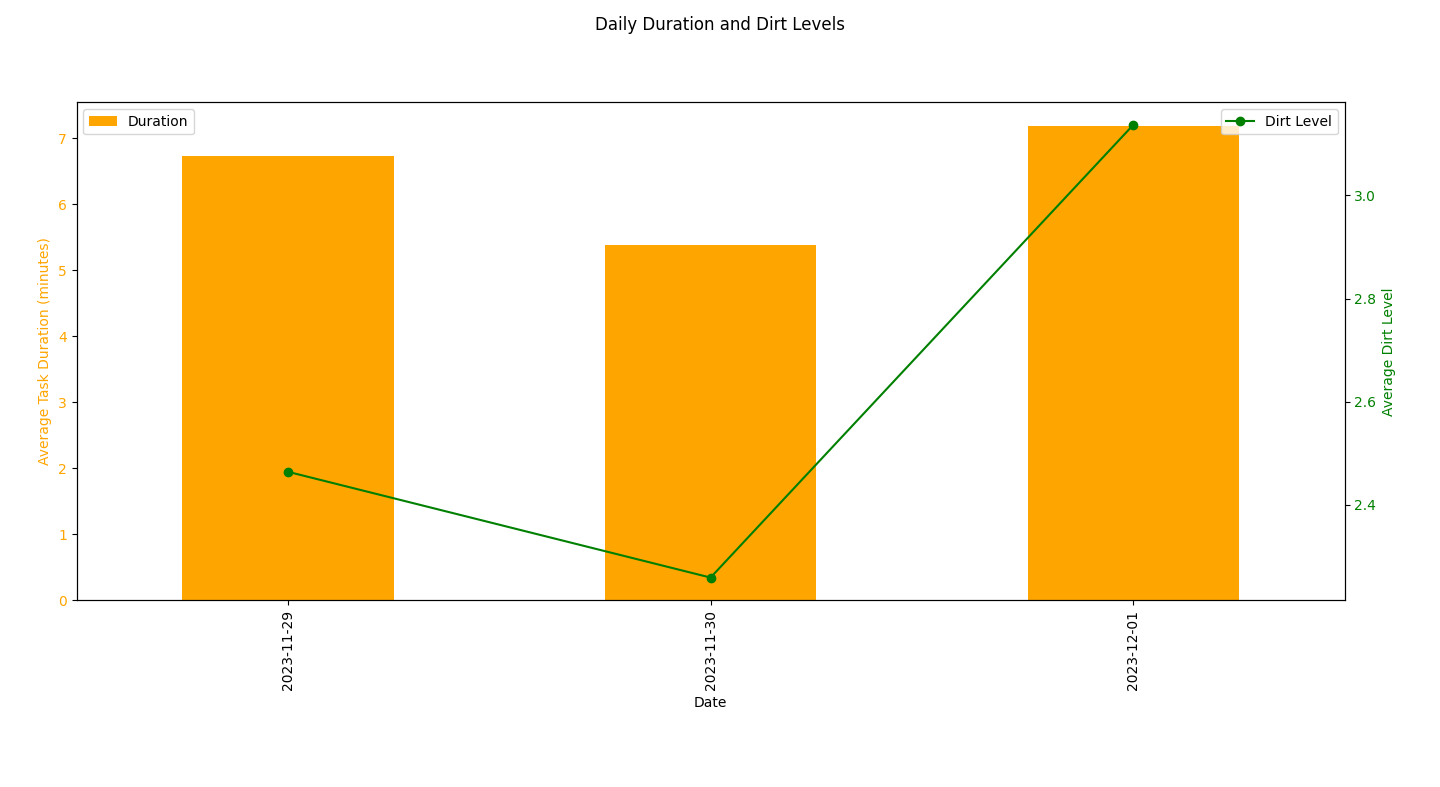
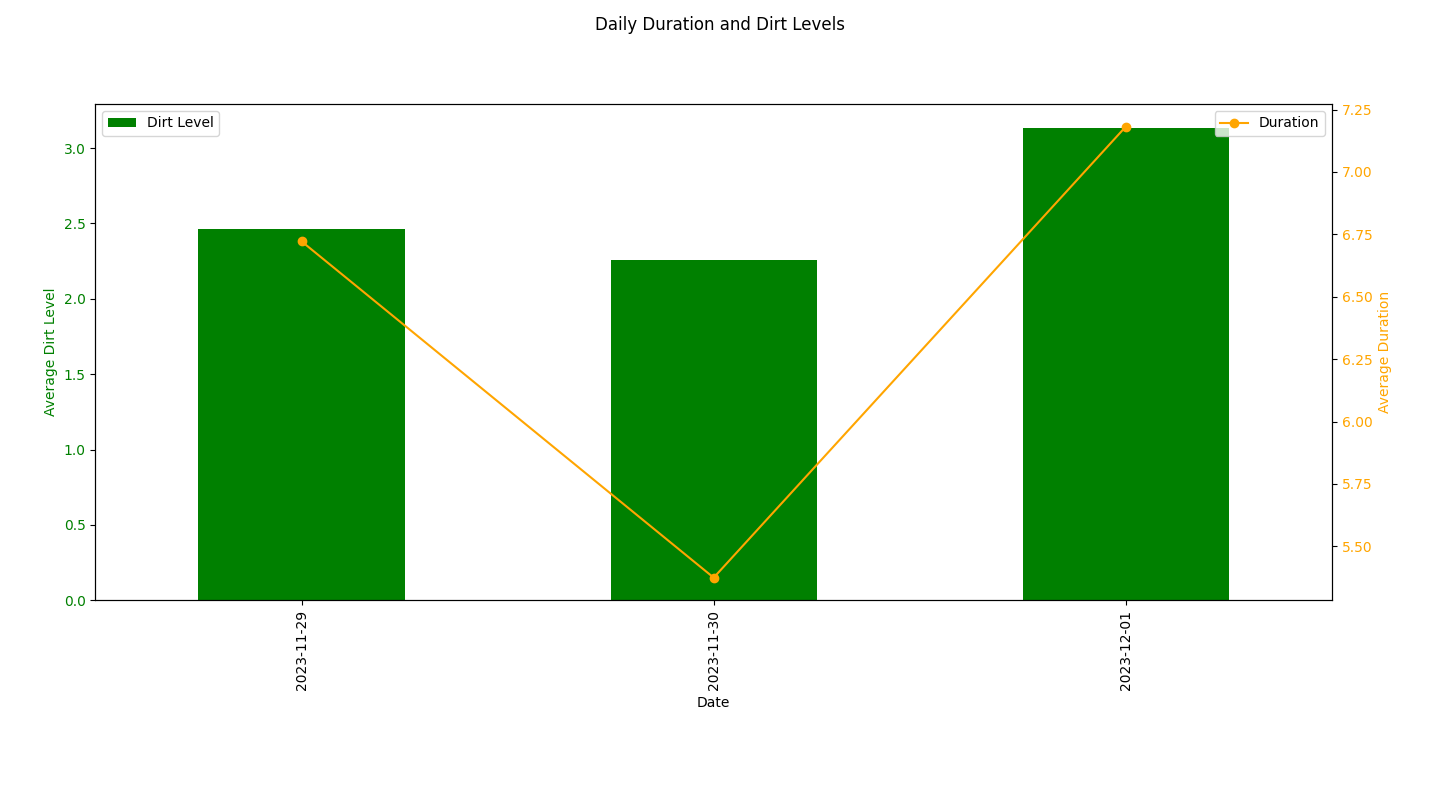
update analysis and example graph

diff --git a/analysis/dailyDirtLevelVsDuration.py b/analysis/dailyDirtLevelVsDuration.py
@@ -16,16 +16,16 @@ fig, ax1 = plt.subplots(figsize=(10, 6))
 fig.suptitle('Daily Duration and Dirt Levels')
 
 # Plot 1: Daily average task duration
-df.groupby(df['Date'].dt.strftime('%Y-%m-%d'))['Dirt Level'].mean().plot(kind='bar', color='orange', ax=ax1, label='Dirt Level')
+df.groupby(df['Date'].dt.strftime('%Y-%m-%d'))['Dirt Level'].mean().plot(kind='bar', color='green', ax=ax1, label='Dirt Level')
 ax1.set_xlabel('Date')
-ax1.set_ylabel('Average Dirt Level', color='orange')
-ax1.tick_params(axis='y', labelcolor='orange')
+ax1.set_ylabel('Average Dirt Level', color='green')
+ax1.tick_params(axis='y', labelcolor='green')
 
 # Create a second y-axis for dirt levels
 ax2 = ax1.twinx()
-df.groupby(df['Date'].dt.strftime('%Y-%m-%d'))['Duration'].mean().dt.total_seconds().div(60).plot(kind='line', marker='o', color='green', ax=ax2, label='Duration')
-ax2.set_ylabel('Average Duration', color='green')
-ax2.tick_params(axis='y', labelcolor='green')
+df.groupby(df['Date'].dt.strftime('%Y-%m-%d'))['Duration'].mean().dt.total_seconds().div(60).plot(kind='line', marker='o', color='orange', ax=ax2, label='Duration')
+ax2.set_ylabel('Average Duration', color='orange')
+ax2.tick_params(axis='y', labelcolor='orange')
 
 # Adjust layout for better appearance
 plt.tight_layout(rect=[0, 0.03, 1, 0.95])
